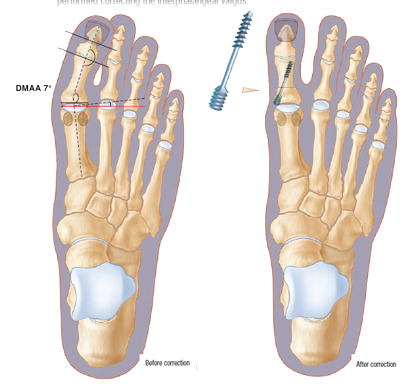
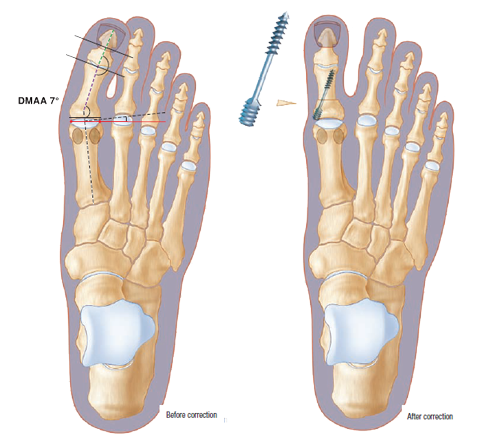
scarf

diff --git a/www/src/app/content/prodBase/stopa/srubyDoPrzedstopia/technikiOperacyjne/scarfOsteotomy.html b/www/src/app/content/prodBase/stopa/srubyDoPrzedstopia/technikiOperacyjne/scarfOsteotomy.html
@@ -1,0 +1,109 @@
+<md-content style="height:{{vm.settings.viewHeight}}px">
+
+    <section>
+        <md-subheader class="md-primary">SCARF OSTEOTOMY</md-subheader>
+        <p>This is the most familiar technique used in France as it allows translation of the 1st MT head
+while permitting rotation and shortening. It is the gold standard and is ideal for
+moderate Hallux Valgus in women aged over 50 years. The fixation obtained is
+generally extremely stable.</p>
+</section>
+<section>
+        <md-subheader class="md-primary">MEDIAL INCISION AND SOFT TISSUE RELEASE</md-subheader>
+<p>The usual incision is straight or omega-shaped and made at the junction of the
+plantar and dorsal skin. A medial capsular approach and lateral arthrolysis are
+possible through a single incision.</p>
+<p>The joint can be sufficiently well released to mobilise the distal segment without
+compromising blood supply to the head.</p>
+<p>The aim is to release and mobilise the mal positioned sesamoids. This approach
+permits section of the metatarsosesamoid ligament and release of the direct and
+oblique tendons of the adductor hallucis.</p>
+<image-big pic="vm.getImageByIdx(24)"></image-big>
+</section>
+<section>
+        <md-subheader class="md-primary">EXOSTOSECTOMY</md-subheader>
+ <p>The term exostosectomy is inappropriate as this is really an irregularity rather than a true bony
+exostosis. The medial surface of the 1st MT head is, however, irregular. Irregularities should
+be smoothed using an oscillating saw or nibblers (Gouge forceps).</p>   
+<image-big pic="vm.getImageByIdx(25)"></image-big>    
+        </section>
+<section>
+        <md-subheader class="md-primary">METATARSAL OSTEOTOMY</md-subheader>
+<p>Use an oscillating saw. The principle is to isolate the metatarsal head now angulated towards
+the body from the baguette-shaped diaphyseal plantar segment. The lines can be variously
+oriented according to surgeon preference. The osteotomies should allow lateralisation of the
+distal segment so that head and sesamoids are repositioned.</p>
+<p>The fact that the plane of the cut runs obliquely in the frontal plane and parallel to the
+inferior surface of the metatarsal enables the 1st MT head to be lowered in order to
+restore weight bearing to the first ray.</p>
+<p>The main cut, which runs obliquely outward, downward and backward, begins 2 mm
+under the first MT neck and ends 2 mm above the plantar cortical bone at the metaphyseal
+junction of the 1st MT. It can be made shorter or longer according to surgeon
+preference or to the reduction desired.</p>
+<p>Secondary resections can be used to obtain shortening or rotation.</p>
+<p>It is often necessary to resect the proximal, lateral corner of the translated metatarsal
+fragment in order to avoid contact with the medial cortical bone of the 2nd MT, which may
+prevent the desired reduction.</p>
+<image-big pic="vm.getImageByIdx(26)"></image-big>  
+ </section>
+<section>
+        <md-subheader class="md-primary">FIXATION</md-subheader>
+<p>Once the correction has been obtained the bone fragments are
+stabilised using the special clamp.
+Using the special drill, distal drilling is performed either vertically,
+which brings about bicortical purchase, or angled towards the
+metatarsal head to ensure a good grip in cancellous bone.
+The lengths required are read directly from the gauge.</p>
+<p><strong>The length of the self-compressing screw is selected in accordance with one of the
+following options:</strong></p>
+<ul><li>For cortical bone purchase the length is taken exactly as read or one size up e.g. (13 mm
+reading => 14 mm screw).</li>
+<li>For cancellous bone the screw length should be shorter to avoid the screw penetrating
+the joint.</li></ul>
+<p>The screw is supplied sterile. It is positioned manually by holding it using the grip. The
+surgeon should not touch the implant itself.<br>
+The separation of implant and gripping device will occur early and more or less so according
+to bone quality. The surgeon then uses the screwdriver to complete the positioning of the
+screw. It is important to ensure that the hex head of the screwdriver is properly engaged
+with the screw to avoid any damage to the screw head.<br>
+The second screw is inserted in position using the same technique aiming for bicortical
+purchase.</p>
+<image-big pic="vm.getImageByIdx(27)"></image-big> 
+<image-big pic="vm.getImageByIdx(28)"></image-big> 
+</section>
+<section>
+ <md-subheader class="md-primary">ASSOCIATED ACTS</md-subheader>
+<p>It is usually necessary to resect the projecting bony edge of the upper
+part of the metatarsal. The bone fragment thus released can be
+repositioned on the lateral edge of the metatarsal.</p>
+<p>Release of the abductor tendon of the great toe can be performed at this
+stage or later during closure.</p>
+<image-big pic="vm.getImageByIdx(29)"></image-big> 
+</section>
+<section>
+ <md-subheader class="md-primary">VERIFICATIONS AND TESTING</md-subheader>
+<p>The corrections must be stable before capsular closure. It is important to ensure the quality
+of the reduction and the stability of the proceedure at this stage by simulating weight
+bearing. If the cartilaginous surface is properly positioned and tension imbalance corrected,
+it is reasonable to expect a satisfactory long term result.</p>
+</section>
+<section>
+ <md-subheader class="md-primary">CLOSURE</md-subheader>
+<p>The surgeon closes in his usual manner. However it is essential that the capsular plane be
+sutured (absorbable sutures suffice in our experience) prior to closure of the superficial
+planes.</p>
+<p>According to surgeon preference, the tourniquet can be released to attain haemostasis prior
+to closure. Drain and suture the subcutaneous plane then using either continuous or
+interrupted sutures close the skin. Nonabsorbable stitches are removed after 2 to 3 weeks.</p>
+</section>
+<section>
+ <md-subheader class="md-primary">POSTOPERATIVE CARE</md-subheader>
+<ul><li>Usually there is no need to replace the dressing. If applied carefully, taking
+correction of the deformities into account, the dressing from the operating
+theatre can be left in place for about fifteen days.</li>
+<li>It is advisable to administer prophylactic anticoagulation.</li>
+<li>It is advisable for the patient to wear a special postoperative shoe for a period
+of between a fortnight to a month.</li>
+<image-big pic="vm.getImageByIdx(30)"></image-big> 
+</section>
+
+</md-content>

diff --git a/www/src/app/services/imagesUrl.js b/www/src/app/services/imagesUrl.js
@@ -382,6 +382,13 @@
                     "images/stopa/srubyDoPrzestopia/technikiOperacyjne/minimallyInvasiveSurgery_21_postOpManagement.png",
                     "images/stopa/srubyDoPrzestopia/technikiOperacyjne/phalangealOsteotomy_22_osteotomy.png",
                     "images/stopa/srubyDoPrzestopia/technikiOperacyjne/phalangealOsteotomy_23_fixation.png",
+                    "images/stopa/srubyDoPrzestopia/technikiOperacyjne/scarfOsteotomy_24_medialIncision.png",
+                    "images/stopa/srubyDoPrzestopia/technikiOperacyjne/scarfOsteotomy_25_exostosectomy.png",
+                    "images/stopa/srubyDoPrzestopia/technikiOperacyjne/scarfOsteotomy_26_lateralView.png",
+                    "images/stopa/srubyDoPrzestopia/technikiOperacyjne/scarfOsteotomy_27_fixation.png",
+                    "images/stopa/srubyDoPrzestopia/technikiOperacyjne/scarfOsteotomy_28_fixation.png",
+                    "images/stopa/srubyDoPrzestopia/technikiOperacyjne/scarfOsteotomy_29_associatedActs.png",
+                    "images/stopa/srubyDoPrzestopia/technikiOperacyjne/scarfOsteotomy_30_care.png",
                     
             ],
 
